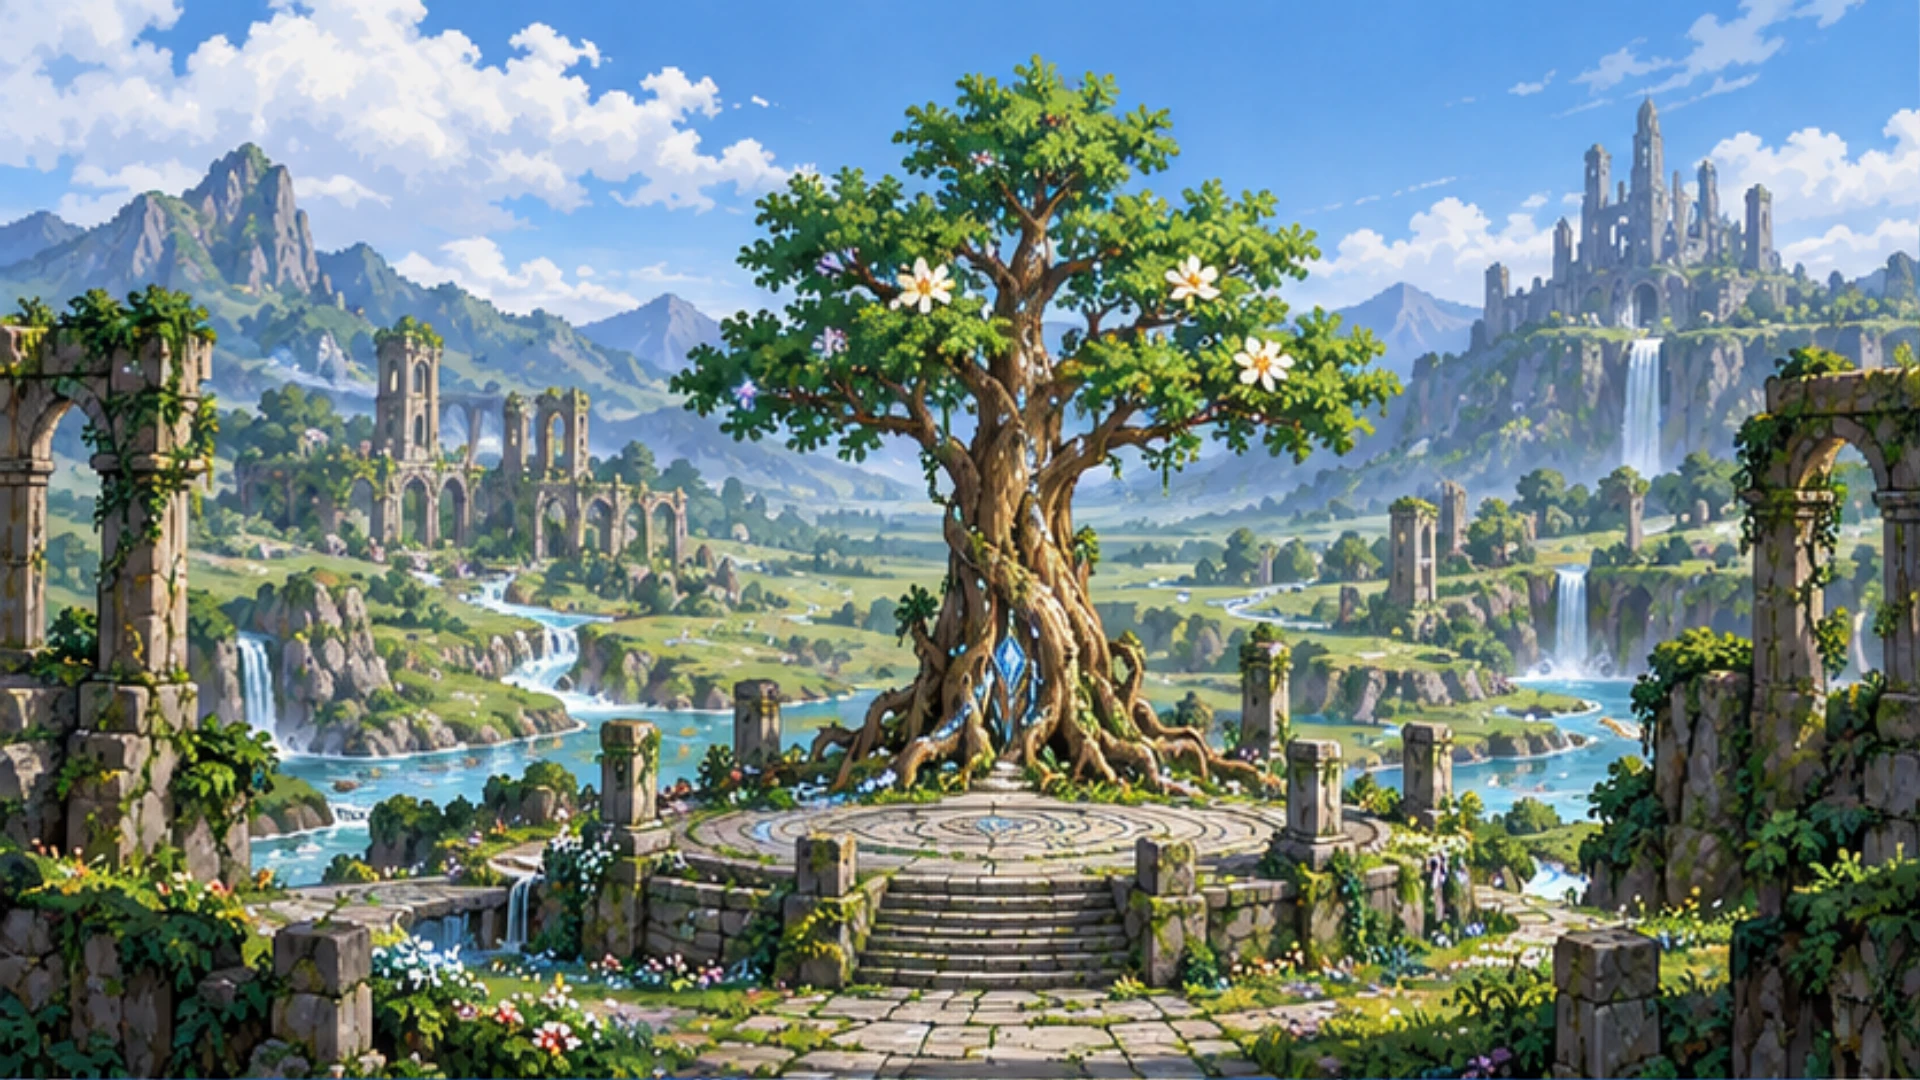
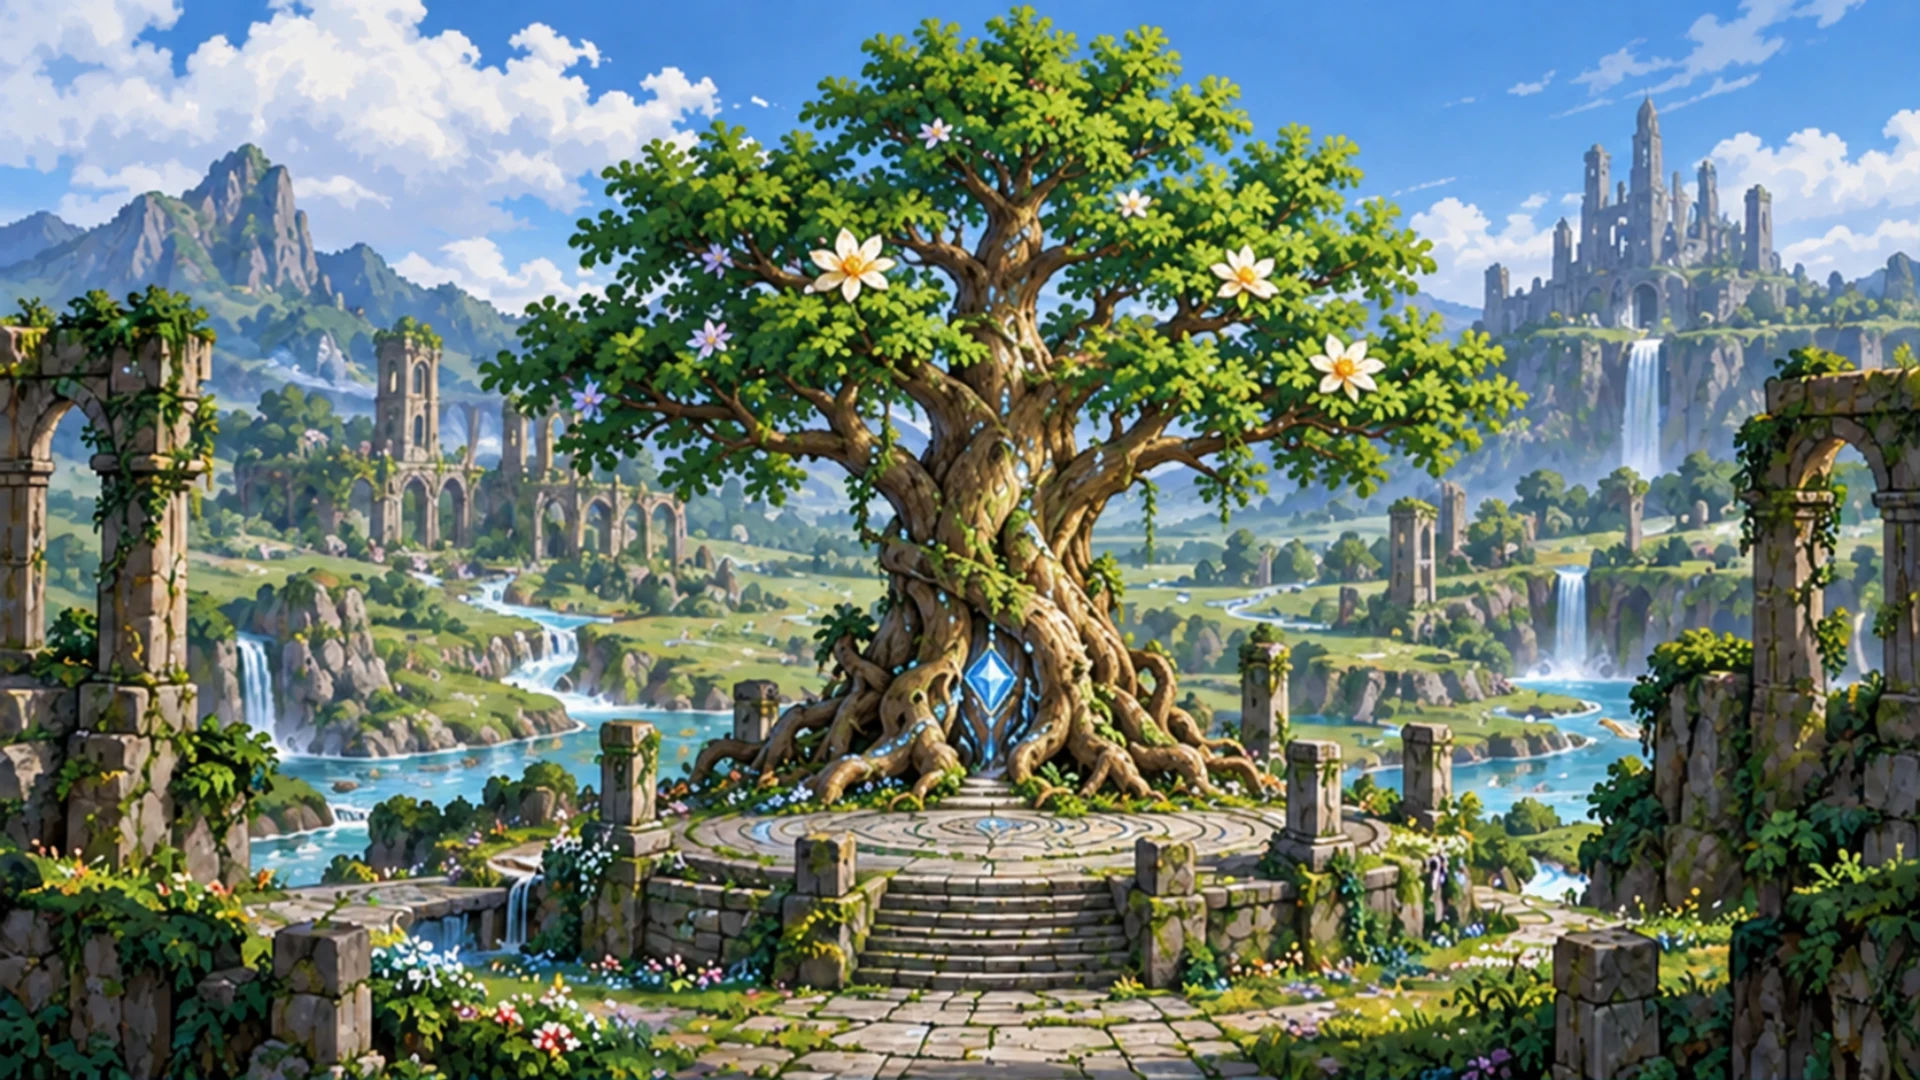
Polish ranch and optimize battle scenes

diff --git a/RPGTheme.html b/RPGTheme.html
@@ -289,6 +289,9 @@ body.ui-v2{--bg:#15171b;--p:#272b30;--l:#656c73;--t:#f1eee5;--m:#bfc2c6;--g:#b4d
 .ui-v2 #mainCard>.mcard{min-height:312px}
 .ui-v2 #mainCard .mhead{min-height:260px}
 .ui-v2 #uiSubCompanion #subCard>.mcard{height:312px}
+/* Fill the unused lower portion with the ranch scene instead of empty card space. */
+.ui-v2 #mainCard>.mcard{display:flex;flex-direction:column}
+.ui-v2 #mainCard .mhead{flex:1 1 auto}
 </style>
 <style id="packaged-resolution-layout">
 /* 1920×1080 packaged viewport: expand the game canvas and keep every current scene on one screen. */
@@ -301,6 +304,12 @@ body.ui-v2{--bg:#15171b;--p:#272b30;--l:#656c73;--t:#f1eee5;--m:#bfc2c6;--g:#b4d
  .ui-v2 .battle-control{height:100%}
  .ui-v2 #worldtree.active{height:856px}
 }
+@media (min-width:1500px) and (min-height:950px){
+ /* Keep the desktop scene compact even when the ranch illustration fills its card. */
+ .ui-v2 #ranch.active{padding-bottom:0!important}
+ .ui-v2 #ranch .ranch-layout{gap:10px}
+ .ui-v2 #ranch .ranch-layout>.panel:first-child{padding-bottom:12px}
+}
 .ui-v2 #mainCard .mhead{background-image:linear-gradient(#1a100308,#17100b72),url("assets/game-art/ranch/ranch-background.webp")!important;background-size:cover!important;background-position:center 56%!important}
 .ui-v2 .fight{background-image:linear-gradient(#10192322,#11182255),var(--fight-backdrop,url("assets/game-art/battle/normal-ruins.webp"))!important;background-size:cover,cover!important;background-position:center!important}
 </style>
@@ -311,15 +320,24 @@ document.addEventListener('DOMContentLoaded',()=>{
  document.body.classList.add('ui-v2');
  const fight=byId('battle')?.querySelector('.fight');
  const battleBackdrops={normal:['ruins','forest','frozen','volcanic'],boss:['eclipse','sky-fortress','crystal-cavern','world-tree']};
+ const battleBackdropLoads=new Map();
+ const preloadBattleBackdrop=scene=>{
+  if(battleBackdropLoads.has(scene))return battleBackdropLoads.get(scene);
+  const image=new Image();image.decoding='async';image.src=`assets/game-art/battle/${scene}.webp`;
+  const loaded=(image.decode?image.decode():new Promise((resolve,reject)=>{image.onload=resolve;image.onerror=reject})).catch(()=>{});
+  battleBackdropLoads.set(scene,loaded);return loaded;
+ };
  const syncBattleBackdrop=()=>{
   if(!fight)return;
   const stage=Number((byId('stageLabel')?.textContent.match(/\d+/)||[])[0])||1;
   const boss=byId('bossTag')?.style.display!=='none';
-  const variant=battleBackdrops[boss?'boss':'normal'][(stage-1)%4];
+  const variant=battleBackdrops[boss?'boss':'normal'][Math.floor((stage-1)/5)%4];
   const scene=`${boss?'boss':'normal'}-${variant}`;
   if(fight.dataset.backdrop===scene)return;
-  fight.style.setProperty('--fight-backdrop',`url("assets/game-art/battle/${scene}.webp")`);
   fight.dataset.backdrop=scene;
+  preloadBattleBackdrop(scene).then(()=>{
+   if(fight.dataset.backdrop===scene)fight.style.setProperty('--fight-backdrop',`url("assets/game-art/battle/${scene}.webp")`);
+  });
  };
  syncBattleBackdrop();
  const battleSceneObserver=new MutationObserver(syncBattleBackdrop);

diff --git a/assets/game-art/README.md b/assets/game-art/README.md
@@ -3,8 +3,8 @@
 The art pack is sized around the packaged 1920×1080 game viewport.
 
 - `field/`: 512×512 tile textures for empty ground, monster, mana, and treasure.
-- `world-tree/`: ten 1920×1080 growth stages, from a nearly dead sapling to the fully restored World Tree.
+- `world-tree/`: ten 1920×1080 growth stages, from a nearly dead sapling to the fully restored World Tree. Stage 5 has a wider canopy to keep the tree's growth visually continuous.
 - `ranch/`: 1920×1080 barn background with a clear center floor for the active monster.
 - `battle/`: eight 1920×660 panoramic battle backgrounds. `normal-*` are regular stages; `boss-*` are boss arenas.
 
-At 1920×1080, the shared header and all current tabs fit in one viewport. The field and ranch use the expanded desktop canvas; battle scene backdrops select normal or boss variants by stage. Narrower screens keep a fluid layout and may scroll vertically, without horizontal overflow.
+At 1920×1080, the shared header and all current tabs fit in one viewport. The field and ranch use the expanded desktop canvas; the ranch monster scene fills unused card space. Battle scenes select a normal or boss backdrop and hold it for five stages; the next image is decoded asynchronously before it replaces the current one. Narrower screens keep a fluid layout and may scroll vertically, without horizontal overflow.
